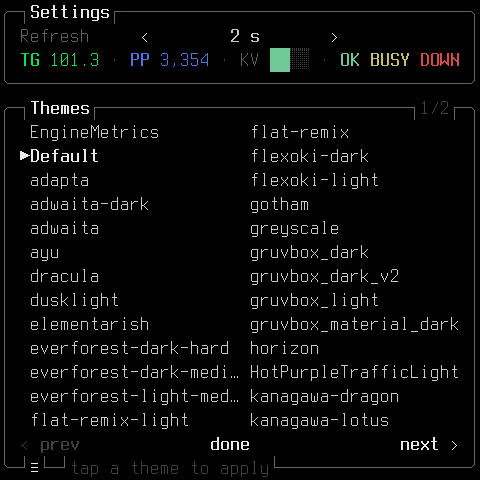
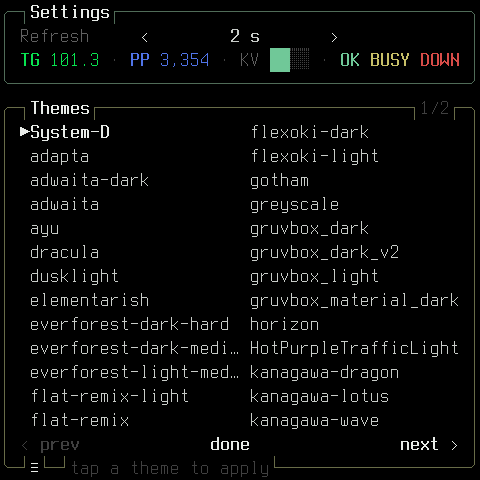
Themes: btop's Default renamed System-D and made the default; EngineMetrics palette removed
Unknown saved names (incl. EngineMetrics / Default) fall back to System-D.

diff --git a/tools/themes/import_btop.py b/tools/themes/import_btop.py
@@ -14,6 +14,9 @@ Role mapping (spec.md §6):
   GOOD/WARN/BAD cpu_start/cpu_mid/cpu_end (btop's low → high gradient)
   DECODE proc_misc · PREFILL temp_mid (falls back when too close to DECODE)
   BRAND fixed red #ff3b30 (not from btop)
+
+btop's built-in Default palette is listed first and named "System-D"; it is
+the firmware's default theme.
 """
 import glob, os, re, sys
 
@@ -23,7 +26,8 @@ OUT = os.path.join(ROOT, "src", "gfx", "themes_btop.h")
 
 ROLES = ["BG", "BORDER", "TITLE", "LABEL", "VALUE", "DIM", "GOOD", "WARN", "BAD",
          "DECODE", "PREFILL", "BOX2", "BOX3", "BOX4", "BRAND"]  # order = enum theme::Role
-BRAND_RED = (0xFF, 0x3B, 0x30)  # "SYSTEM-D" is this red in every theme (user request)
+BRAND_RED = (0xFF, 0x3B, 0x30)
+DEFAULT_THEME_NAME = "System-D"  # btop's built-in Default palette, renamed  # "SYSTEM-D" is this red in every theme (user request)
 KEYS = {"BG": "main_bg", "BORDER": "cpu_box", "TITLE": "title", "LABEL": "graph_text",
         "VALUE": "main_fg", "DIM": "inactive_fg", "GOOD": "cpu_start", "WARN": "cpu_mid",
         "BAD": "cpu_end", "DECODE": "proc_misc", "PREFILL": "temp_mid", "BOX2": "mem_box",
@@ -71,7 +75,8 @@ def rgb565(c):
 def main():
     default = parse(open(os.path.join(SRC, "default_theme.txt")).read())
     default = {k: v for k, v in default.items() if k}
-    themes = [("Default", resolve({}, default))]
+    # btop's built-in Default palette, shown here as "System-D" (the default theme).
+    themes = [(DEFAULT_THEME_NAME, resolve({}, default))]
     for f in sorted(glob.glob(os.path.join(SRC, "themes", "*.theme")), key=lambda p: os.path.basename(p).lower()):
         t = dict(re.findall(r'theme\[(\w+)\]\s*=\s*"([^"]*)"', open(f).read()))
         themes.append((os.path.basename(f)[:-6], resolve(t, default)))

diff --git a/src/gfx/theme.cpp b/src/gfx/theme.cpp
@@ -6,40 +6,20 @@
 
 namespace theme {
 
-namespace {
-// The original palette, from EngineMetrics' curses colours. Order = Role.
-const Theme ENGINE_METRICS = {
-    "EngineMetrics",
-    {
-        rgb565(0x000000),  // BG
-        rgb565(0x00CDCD),  // BORDER  cyan
-        rgb565(0x00CDCD),  // TITLE   cyan (bold)
-        rgb565(0xCDCD00),  // LABEL   yellow
-        rgb565(0xE5E5E5),  // VALUE   white
-        rgb565(0x7F7F7F),  // DIM
-        rgb565(0x00CD00),  // GOOD
-        rgb565(0xCDCD00),  // WARN
-        rgb565(0xCD0000),  // BAD
-        rgb565(0x00FF5F),  // DECODE  bright green
-        rgb565(0xCD00CD),  // PREFILL magenta
-        rgb565(0x00CDCD),  // BOX2
-        rgb565(0x00CDCD),  // BOX3
-        rgb565(0x00CDCD),  // BOX4
-        BRAND_RED,         // BRAND
-    }};
-}  // namespace
-
-int count() { return 1 + BTOP_COUNT; }
+int count() { return BTOP_COUNT; }
 
 const Theme& get(int index) {
   index %= count();
   if (index < 0) index += count();
-  return index == 0 ? ENGINE_METRICS : BTOP_THEMES[index - 1];
+  return BTOP_THEMES[index];
 }
 
 int find(const char* name) {
   for (int i = 0; i < count(); i++)
     if (name && strcmp(get(i).name, name) == 0) return i;
+  // Unknown name (first boot, or a theme that no longer exists): default.
+  for (int i = 0; i < count(); i++)
+    if (strcmp(get(i).name, DEFAULT_NAME) == 0) return i;
   return 0;
 }
 

diff --git a/src/gfx/theme.h b/src/gfx/theme.h
@@ -3,11 +3,10 @@
 
 // Colour roles and themes (spec.md §6). Grid cells store a Role; the theme
 // maps it to RGB565 at blit time, so switching theme is a full repaint with
-// no re-layout. Theme 0 is the EngineMetrics palette
-// (https://github.com/0rand/EngineMetrics); the rest are btop's Default +
-// bundled themes (https://github.com/aristocratos/btop, Apache-2.0; by
-// aristocratos and the theme authors), converted by
-// tools/themes/import_btop.py. Arduino-free.
+// no re-layout. The themes are btop's Default + bundled themes
+// (https://github.com/aristocratos/btop, Apache-2.0; by aristocratos and the
+// theme authors), converted by tools/themes/import_btop.py. The default,
+// "System-D", is btop's built-in Default palette. Arduino-free.
 namespace theme {
 
 enum Role : uint8_t {
@@ -34,9 +33,13 @@ struct Theme {
   uint16_t rgb565[ROLE_COUNT];
 };
 
+// btop's built-in Default palette, renamed; used on first boot and for an
+// unknown saved name.
+constexpr const char* DEFAULT_NAME = "System-D";
+
 int count();
 const Theme& get(int index);           // wraps around
-int find(const char* name);            // index, or 0 if unknown
+int find(const char* name);            // index; DEFAULT_NAME's if unknown
 
 constexpr uint16_t rgb565(uint32_t rgb) {
   return (uint16_t)((((rgb >> 16) & 0xF8) << 8) | (((rgb >> 8) & 0xFC) << 3) |

diff --git a/test/test_render/test_main.cpp b/test/test_render/test_main.cpp
@@ -97,11 +97,14 @@ static void test_brand_is_red_in_every_theme() {
 }
 
 static void test_themes_and_hits() {
-  TEST_ASSERT_EQUAL_INT(43, theme::count());  // EngineMetrics + btop Default + 41
-  TEST_ASSERT_EQUAL_INT(0, theme::find("EngineMetrics"));
-  TEST_ASSERT_EQUAL_STRING("Default", theme::get(1).name);
-  TEST_ASSERT_TRUE(theme::find("tokyo-night") > 1);
+  TEST_ASSERT_EQUAL_INT(42, theme::count());  // btop Default + 41 bundled
+  TEST_ASSERT_EQUAL_STRING("System-D", theme::get(0).name);  // btop's Default, renamed
+  TEST_ASSERT_TRUE(theme::find("tokyo-night") > 0);
+  // Unknown names (first boot, the removed EngineMetrics theme, the old
+  // "Default" name) → System-D.
   TEST_ASSERT_EQUAL_INT(0, theme::find("no-such-theme"));
+  TEST_ASSERT_EQUAL_INT(0, theme::find("EngineMetrics"));
+  TEST_ASSERT_EQUAL_INT(0, theme::find("Default"));
   TEST_ASSERT_EQUAL_INT(2, pages::themePages());
 
   pages::Settings s{2000, 0, 0};

diff --git a/src/gfx/themes_btop.h b/src/gfx/themes_btop.h
@@ -7,7 +7,7 @@
 namespace theme {
 constexpr int BTOP_COUNT = 42;
 const Theme BTOP_THEMES[BTOP_COUNT] = {
-    {"Default", {0x0000, 0x536B, 0xEF7D, 0x630C, 0xCE79, 0x4208, 0x7653, 0xCE0D, 0xDA69, 0x0F2A, 0x53BD, 0x6B69, 0x5AD1, 0x828A, 0xF9C6}},
+    {"System-D", {0x0000, 0x536B, 0xEF7D, 0x630C, 0xCE79, 0x4208, 0x7653, 0xCE0D, 0xDA69, 0x0F2A, 0x53BD, 0x6B69, 0x5AD1, 0x828A, 0xF9C6}},
     {"adapta", {0x0000, 0x05FA, 0xFFFF, 0x630C, 0xCEDB, 0x4208, 0x05FA, 0xD6A0, 0xF808, 0x55FD, 0xD6A0, 0x05FA, 0x05FA, 0x05FA, 0xF9C6}},
     {"adwaita-dark", {0x18E3, 0x73AF, 0xDEFB, 0x630C, 0xDEFB, 0x73AF, 0x651D, 0x1B9B, 0xE0C4, 0x1AF6, 0xE0C4, 0x73AF, 0x73AF, 0x73AF, 0xF9C6}},
     {"adwaita", {0xF7BE, 0x29A6, 0x29A6, 0x630C, 0x29A6, 0x5AEC, 0x1AF6, 0x1AF6, 0xC0E5, 0x1AF6, 0xC0E5, 0x39E2, 0x29A6, 0x29A6, 0xF9C6}},

diff --git a/src/ui/page_settings.cpp b/src/ui/page_settings.cpp
@@ -6,7 +6,7 @@
 //   │ TG 101.3 · PP 3,354/s · KV ████░░ · OK IDLE │   live preview
 //   ╰─────────────────────────────────────────────╯
 //   ╭─┐Themes┌───────────────────────────┐1/2┌─╮
-//   │ ▶ EngineMetrics        everforest-dark-hard  │   13 rows × 2 columns
+//   │ ▶System-D             everforest-dark-hard   │   13 rows × 2 columns
 //   │ …                                            │
 //   │ ‹ prev           done            next ›      │
 //   ╰─┘≡└─┘tap a theme to apply└───────────────────╯

diff --git a/tools/render/screens.py b/tools/render/screens.py
@@ -13,11 +13,11 @@ ROOT = os.path.abspath(os.path.join(os.path.dirname(__file__), "..", ".."))
 OUT = os.path.join(ROOT, "docs", "images")
 
 SHOTS = [  # (file, page, theme)
-    ("overview.png", "overview", "Default"),
-    ("graphs.png", "graphs", "Default"),
-    ("settings.png", "settings", "Default"),
+    ("overview.png", "overview", "System-D"),  # the default theme
+    ("graphs.png", "graphs", "System-D"),
+    ("settings.png", "settings", "System-D"),
 ]
-GALLERY = ("themes.png", "overview", ["EngineMetrics", "nord", "gruvbox_dark", "tokyo-night"])
+GALLERY = ("themes.png", "overview", ["elementarish", "nord", "gruvbox_dark", "tokyo-night"])
 
 
 def read_ppm(path):

diff --git a/src/main.cpp b/src/main.cpp
@@ -188,7 +188,7 @@ void setup() {
   screen::begin(gfx);
 
   prefs.begin("sysd", false);
-  theme_index = theme::find(prefs.getString("theme", "EngineMetrics").c_str());
+  theme_index = theme::find(prefs.getString("theme", theme::DEFAULT_NAME).c_str());
   const uint32_t poll_ms = prefs.getUInt("poll_ms", POLL_MS);
   page = prefs.getUChar("page", 0) ? pages::Page::GRAPHS : pages::Page::OVERVIEW;
   server = prefs.getUChar("server", 0) % kServerCount;

diff --git a/spec.md b/spec.md
@@ -351,9 +351,12 @@ Built in M2 (2026-11-01); code in `src/gfx/`, `src/ui/`, `src/hw/screen.cpp`.
 
 ### Themes (chosen in Settings, saved in NVS by name)
 
-43 themes: **EngineMetrics** (the original curses palette, theme 0), then
-btop's built-in **Default** and its **41 bundled themes** (nord, gruvbox,
-dracula, tokyo-night, solarized, …). The btop themes are vendored in
+42 themes, all from btop: its built-in **Default** palette, shown as
+**System-D** (first in the list, and the default on first boot or for an
+unknown saved name), and its **41 bundled themes** (nord, gruvbox, dracula,
+tokyo-night, solarized, …). The EngineMetrics palette was removed and
+`Default` was renamed `System-D`, both at the user's request (2026-11-01). A
+board with either old name saved falls back to System-D. The btop themes are vendored in
 `third_party/btop/` (Apache-2.0, commit in `SOURCE.txt`) and converted into
 `src/gfx/themes_btop.h` by `tools/themes/import_btop.py`. As in btop, any key
 a theme doesn't set comes from Default; `"#gg"` is grey shorthand and an
@@ -566,7 +569,7 @@ the new baseline (so it can trigger restart detection).
 | tap right third (x ≥ 320) | next server (with > 1 server) |
 | tap centre (anywhere with 1 server) | overview ↔ graphs |
 | tap bottom-left corner (`≡`, row 20, x < 120) | Settings (§7.3) |
-| hold ≥ 0.7 s | nothing (it used to cycle the theme; with 43 themes that moved to Settings) |
+| hold ≥ 0.7 s | nothing (it used to cycle the theme; with 42 themes that moved to Settings) |
 | `ROTATE_S > 0` | auto-advance to the next server every N s; any touch pauses it for 60 s |
 
 A tap is a press and release within 500 ms, with movement < 24 px.
@@ -715,7 +718,8 @@ third_party/terminus/  ter-u20n.bdf ter-u20b.bdf OFL.TXT
 - **Clock is 12-hour** (`2:47:33 PM`).
 - **btop boxes + btop themes + Settings (2026-11-01):** separate rounded
   boxes with notched titles instead of `├─┤` dividers; all 42 btop themes
-  plus EngineMetrics; a Settings screen (bottom-left `≡`) for theme and
+  (btop's Default renamed System-D and made the default; EngineMetrics
+  palette removed); a Settings screen (bottom-left `≡`) for theme and
   refresh rate.
 - **Header (user, 2026-11-01):** Wi-Fi bars pinned top-right; server
   name + IP on their own line with the state right-justified; engine +

diff --git a/THIRD_PARTY.md b/THIRD_PARTY.md
@@ -5,7 +5,7 @@ System-D Monitor itself is MIT-licensed (`LICENSE`). It includes or uses:
 | Component | Where | Licence |
 |---|---|---|
 | [Terminus Font](https://terminus-font.sourceforge.net/) 4.49.1 (10×20 regular + bold) | vendored BDFs in `third_party/terminus/`, converted into `src/gfx/font_ter10x20.h` | SIL Open Font License 1.1 (`third_party/terminus/OFL.TXT`) |
-| [btop](https://github.com/aristocratos/btop) colour themes by aristocratos and the theme authors (named in 33 of the 41 files; kept unchanged) (built-in Default + 41 bundled `.theme` files) | vendored in `third_party/btop/`, converted into `src/gfx/themes_btop.h` | Apache License 2.0 (`third_party/btop/LICENSE`); source commit in `third_party/btop/SOURCE.txt` |
+| [btop](https://github.com/aristocratos/btop) colour themes by aristocratos and the theme authors (named in 33 of the 41 files; kept unchanged) (built-in Default, shown as "System-D", + 41 bundled `.theme` files) | vendored in `third_party/btop/`, converted into `src/gfx/themes_btop.h` | Apache License 2.0 (`third_party/btop/LICENSE`); source commit in `third_party/btop/SOURCE.txt` |
 | [Arduino_GFX](https://github.com/moononournation/Arduino_GFX) 1.6.9 | fetched by PlatformIO (`lib_deps`) | BSD |
 | [ArduinoJson](https://arduinojson.org/) 7.4.3 | fetched by PlatformIO (`lib_deps`) | MIT |
 | [Arduino core for ESP32](https://github.com/espressif/arduino-esp32) / ESP-IDF | fetched by PlatformIO (`platform = espressif32@8.0.0`) | Apache 2.0 / LGPL 2.1 (see upstream) |

diff --git a/README.md b/README.md
@@ -17,9 +17,8 @@ are btop's. See [Credits](#credits).
   to install on the GPU box, no Prometheus, no cloud.
 - **vLLM and TensorFold**, detected automatically, **up to 4 servers**; tap
   left or right to switch between them.
-- **43 colour themes:** all of [btop](https://github.com/aristocratos/btop)'s
-  themes, plus the original
-  [EngineMetrics](https://github.com/0rand/EngineMetrics) palette.
+- **42 colour themes** from [btop](https://github.com/aristocratos/btop).
+  The default, **System-D**, is btop's own Default palette.
 - **Honest numbers:** anything not exported, not received yet, or not
   measurable reads `no data`, never a made-up 0.
 
